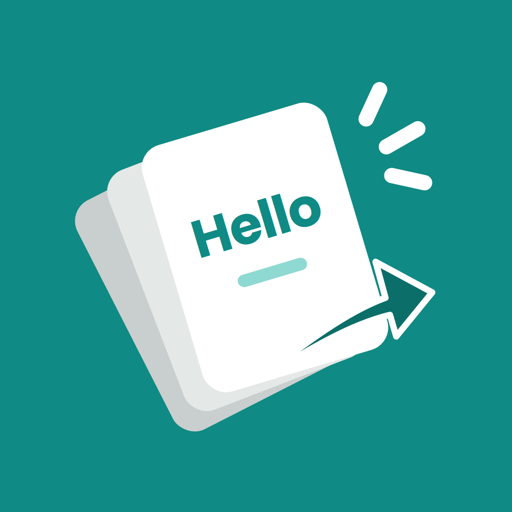
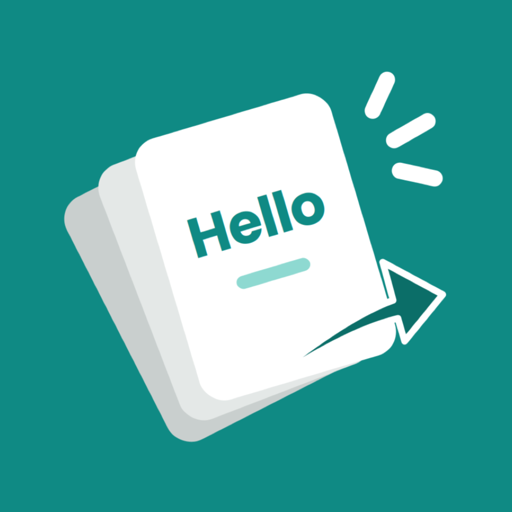
Bigger artwork in the same tile
The icon's card sat in more margin than it needed. Scaled 6% inside the
1024 canvas and re-cut, so the mark reads at 22px in a browser tab and at
30px in the header. Cache token bumped with it.

Claude-Session: https://claude.ai/code/session_01WRfjKEXcETQJeS94TDdhy9

diff --git a/index.html b/index.html
@@ -15,10 +15,10 @@
  "description":"Swipe-based vocabulary learning with honest recall and FSRS spaced repetition across twenty-six languages.",
  "offers":{"@type":"Offer","price":"0","priceCurrency":"USD"}}
 </script>
-<link rel="icon" type="image/png" href="favicon.png?v=2" media="(prefers-color-scheme: light)">
-<link rel="icon" type="image/png" href="favicon-dark.png?v=2" media="(prefers-color-scheme: dark)">
-<link rel="icon" type="image/png" href="favicon.png?v=2">
-<link rel="apple-touch-icon" href="icon.png?v=2">
+<link rel="icon" type="image/png" href="favicon.png?v=3" media="(prefers-color-scheme: light)">
+<link rel="icon" type="image/png" href="favicon-dark.png?v=3" media="(prefers-color-scheme: dark)">
+<link rel="icon" type="image/png" href="favicon.png?v=3">
+<link rel="apple-touch-icon" href="icon.png?v=3">
 <link rel="preconnect" href="https://fonts.googleapis.com">
 <link rel="preconnect" href="https://fonts.gstatic.com" crossorigin>
 <link href="https://fonts.googleapis.com/css2?family=Inter:wght@400;600;700;800;900&display=swap" rel="stylesheet">
@@ -192,7 +192,7 @@
 <div class="navbar" id="navbar">
   <div class="wrap">
     <nav>
-      <div class="brand"><img class="brand-img" src="icon.png?v=2" alt="">Vocab Swiper</div>
+      <div class="brand"><img class="brand-img" src="icon.png?v=3" alt="">Vocab Swiper</div>
       <a class="cta-mini" href="https://apps.apple.com/app/id6782795150" target="_blank" rel="noopener">Get the app</a>
     </nav>
   </div>
@@ -292,7 +292,7 @@
 
 <section class="fin" id="get">
   <div class="wrap reveal-sec">
-    <img class="fin-icon" src="icon.png?v=2" alt="Vocab Swiper icon">
+    <img class="fin-icon" src="icon.png?v=3" alt="Vocab Swiper icon">
     <h2>Your next language,<br>one swipe away.</h2>
     <div class="flags" id="fin-flags"></div>
     <a class="badge" href="https://apps.apple.com/app/id6782795150" target="_blank" rel="noopener" aria-label="Download on the App Store">
@@ -305,7 +305,7 @@
 
 <footer>
   <div class="wrap foot-row">
-    <span class="foot-brand"><img src="icon.png?v=2" alt="">Vocab Swiper · © 2026 Strate Labs</span>
+    <span class="foot-brand"><img src="icon.png?v=3" alt="">Vocab Swiper · © 2026 Strate Labs</span>
     <span><a href="privacy/">Privacy</a> &nbsp;·&nbsp; <a href="support/">Support</a></span>
   </div>
 </footer>

diff --git a/support/index.html b/support/index.html
@@ -6,10 +6,10 @@
 <title>Support — Vocab Swiper</title>
 <meta name="description" content="Get help with Vocab Swiper or send feedback. We usually reply within a day.">
 <meta name="robots" content="index,follow">
-<link rel="icon" type="image/png" href="../favicon.png?v=2" media="(prefers-color-scheme: light)">
-<link rel="icon" type="image/png" href="../favicon-dark.png?v=2" media="(prefers-color-scheme: dark)">
-<link rel="icon" type="image/png" href="../favicon.png?v=2">
-<link rel="apple-touch-icon" href="../icon.png?v=2">
+<link rel="icon" type="image/png" href="../favicon.png?v=3" media="(prefers-color-scheme: light)">
+<link rel="icon" type="image/png" href="../favicon-dark.png?v=3" media="(prefers-color-scheme: dark)">
+<link rel="icon" type="image/png" href="../favicon.png?v=3">
+<link rel="apple-touch-icon" href="../icon.png?v=3">
 <link rel="preconnect" href="https://fonts.googleapis.com">
 <link rel="preconnect" href="https://fonts.gstatic.com" crossorigin>
 <link href="https://fonts.googleapis.com/css2?family=Inter:wght@400;500;600;700;800;900&display=swap" rel="stylesheet">
@@ -95,7 +95,7 @@
 <main>
 <div class="wrap">
   <nav>
-    <a class="brand" href="../"><img src="../icon.png?v=2" alt="">Vocab Swiper</a>
+    <a class="brand" href="../"><img src="../icon.png?v=3" alt="">Vocab Swiper</a>
     <a class="back" href="../">← Back to site</a>
   </nav>
 
@@ -143,7 +143,7 @@
 
 <footer>
   <div class="wrap foot-row">
-    <span class="foot-brand"><img src="../icon.png?v=2" alt="">Vocab Swiper · © 2026 Strate Labs</span>
+    <span class="foot-brand"><img src="../icon.png?v=3" alt="">Vocab Swiper · © 2026 Strate Labs</span>
     <span><a href="../privacy/">Privacy</a></span>
   </div>
 </footer>

diff --git a/privacy/index.html b/privacy/index.html
@@ -4,10 +4,10 @@
 <meta charset="utf-8">
 <meta name="viewport" content="width=device-width, initial-scale=1">
 <title>Privacy Policy — Vocab Swiper</title>
-<link rel="icon" type="image/png" href="../favicon.png?v=2" media="(prefers-color-scheme: light)">
-<link rel="icon" type="image/png" href="../favicon-dark.png?v=2" media="(prefers-color-scheme: dark)">
-<link rel="icon" type="image/png" href="../favicon.png?v=2">
-<link rel="apple-touch-icon" href="../icon.png?v=2">
+<link rel="icon" type="image/png" href="../favicon.png?v=3" media="(prefers-color-scheme: light)">
+<link rel="icon" type="image/png" href="../favicon-dark.png?v=3" media="(prefers-color-scheme: dark)">
+<link rel="icon" type="image/png" href="../favicon.png?v=3">
+<link rel="apple-touch-icon" href="../icon.png?v=3">
 <style>
   body { background:#1E1F25; color:#fff; font-family:-apple-system,BlinkMacSystemFont,"Segoe UI",Roboto,sans-serif; line-height:1.7; }
   .wrap { max-width:680px; margin:0 auto; padding:48px 24px; }
